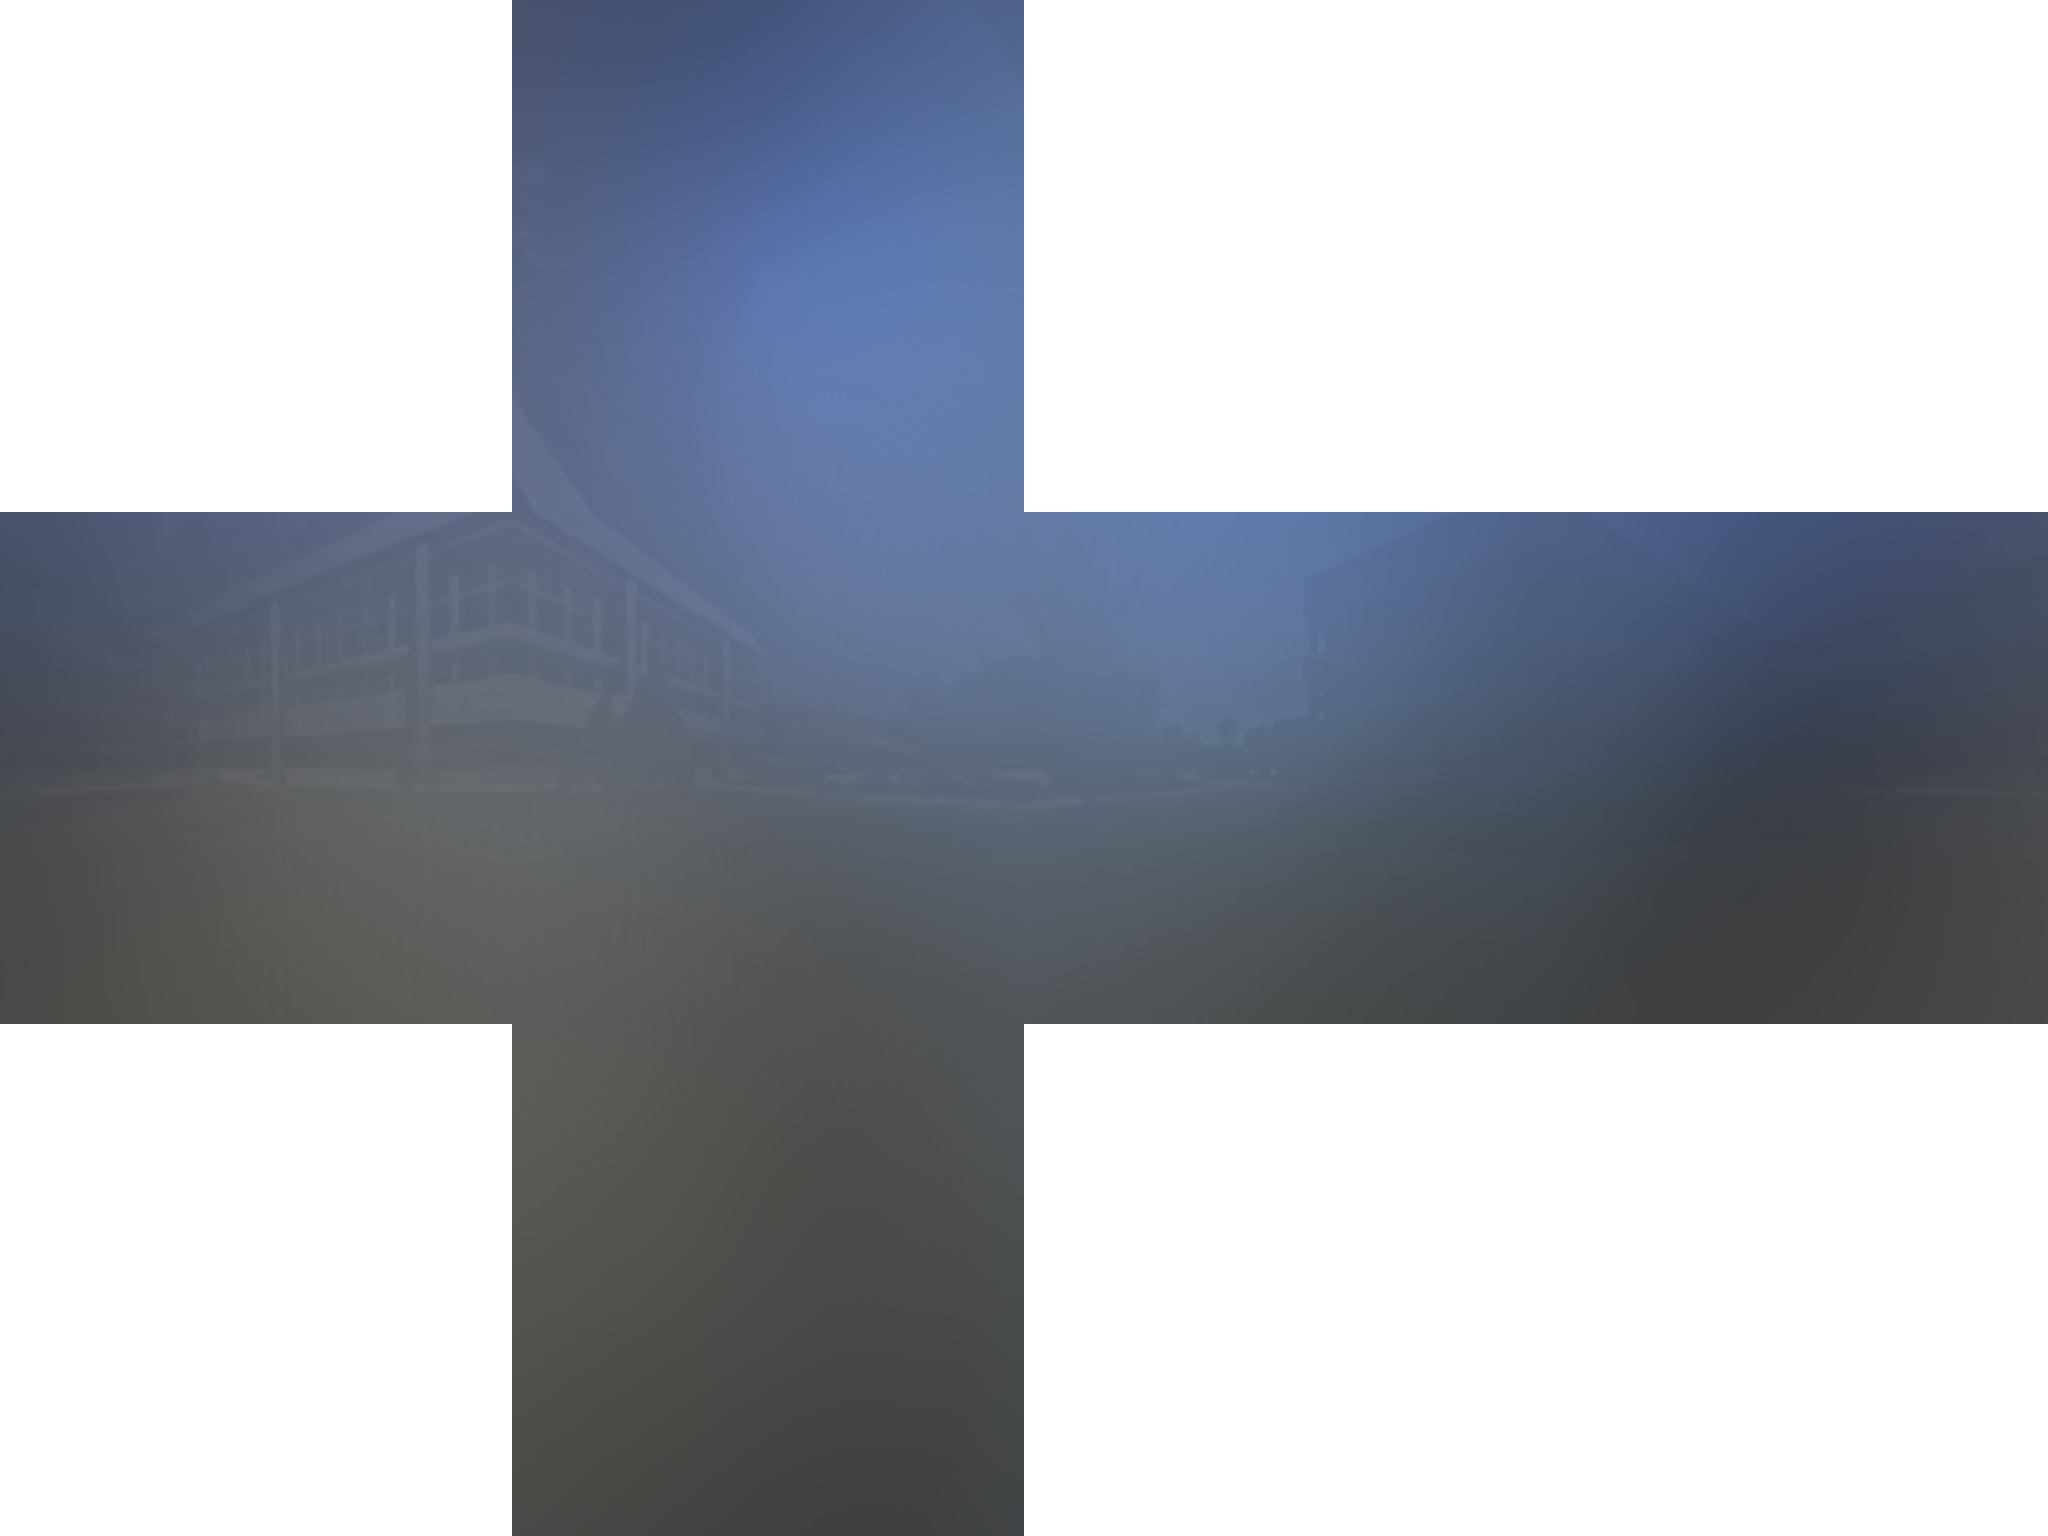
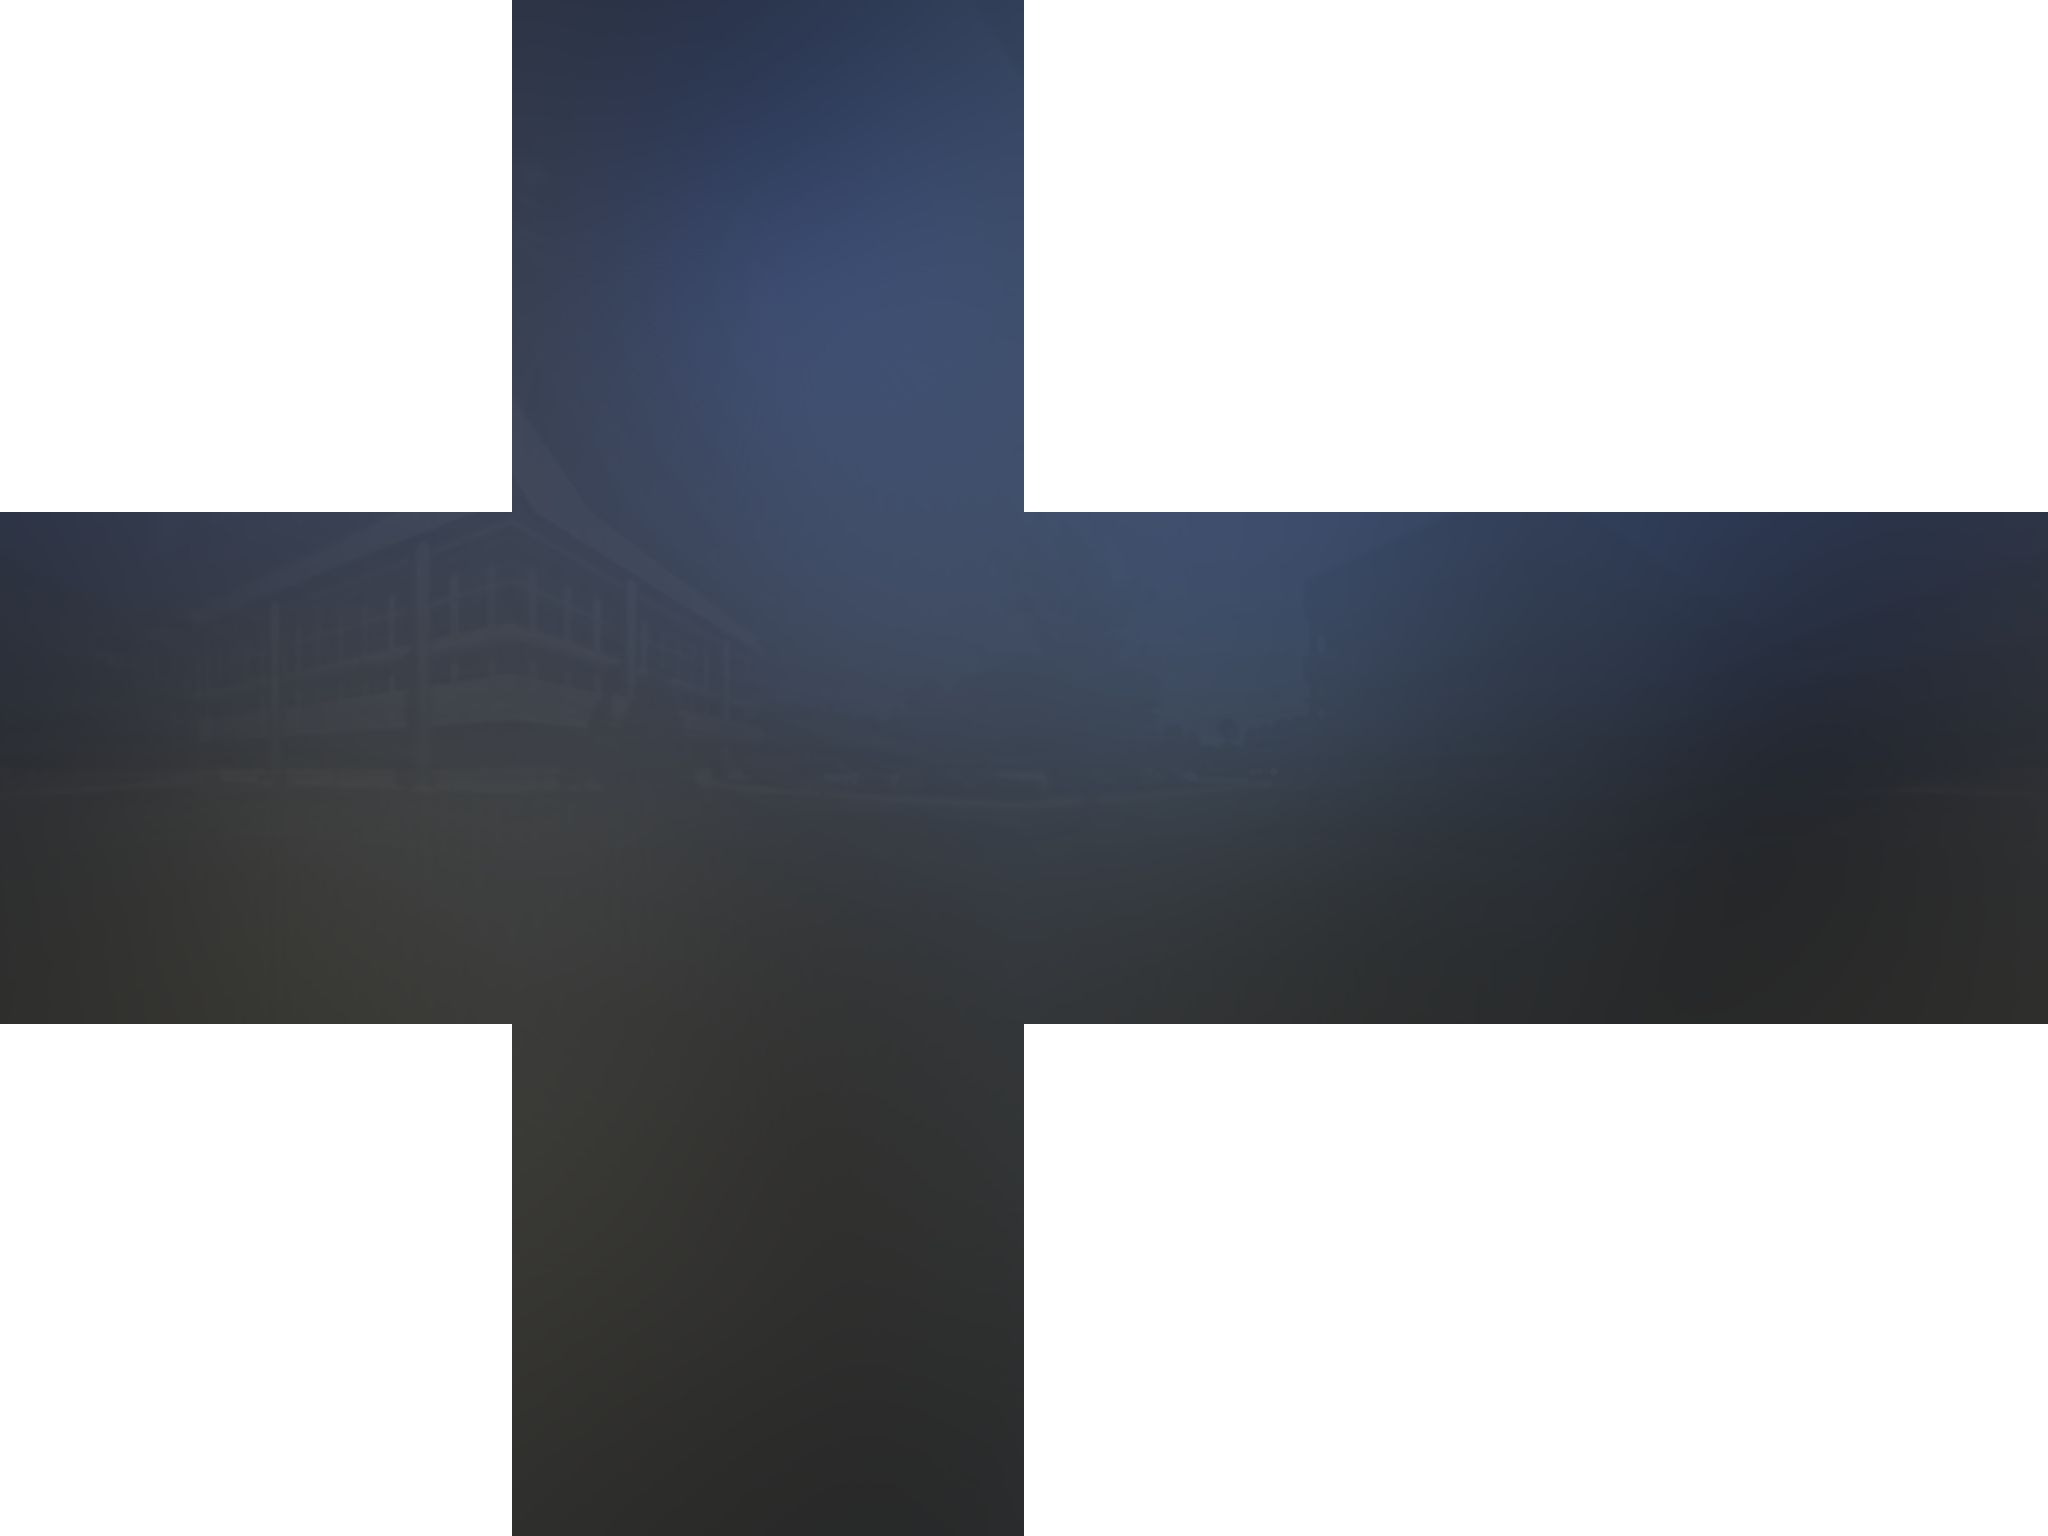
FIXED a bug: generate_irradiance_map

diff --git a/pre_compute.h b/pre_compute.h
@@ -48,7 +48,7 @@ void generate_irradiance_map(const std::string& src_texpath, const std::string& 
 {
 	cube_texture_t src_cube_tex;
 	src_cube_tex.load_tex(src_texpath, false);
-	
+
 	int siz = src_cube_tex.size();
 	cube_texture_t dst_cube_tex(siz);
 
@@ -62,11 +62,12 @@ void generate_irradiance_map(const std::string& src_texpath, const std::string& 
 				tc.v = 1.0f * j / (siz - 1);
 				vector3_t n;
 				cube_uv_to_direction(face_id, tc, n);
-		
+
 				vector3_t tan_x, tan_y;
 				makeup_rot(n, tan_x, tan_y);
 
 				vector3_t irradiance(0, 0, 0);
+
 				const int sample_num = 100;
 				for (int u = 0; u < sample_num; ++u)
 				{
@@ -76,17 +77,15 @@ void generate_irradiance_map(const std::string& src_texpath, const std::string& 
 						vector3_t h = hemisphere_sample_uniform(1.0f * u / (sample_num - 1), 1.0f * v / (sample_num - 1));
 
 						// convert h to world space
-						vector3_t sample_dir = tan_x * h.x + tan_y * h.y + n * h.z;
-						sample_dir.normalize();
-						vector3_t color = src_cube_tex.sample(sample_dir).to_vec3();
+						vector3_t l = tan_x * h.x + tan_y * h.y + n * h.z;
+						l.normalize();
+						vector3_t color = src_cube_tex.sample(l).to_vec3();
 
-						float n_dot_l = max(dot(sample_dir, n), 0);
-						irradiance += color * n_dot_l;
-
+						float NoL = max(dot(n, l), 0);
+						irradiance += color * NoL;
 					}
 				}
-
-				irradiance = irradiance * cPI / (sample_num * sample_num);
+				irradiance = irradiance * 2.0f / float(sample_num * sample_num);
 				face.write_at(i, j, irradiance);
 			}
 		}
@@ -108,7 +107,7 @@ void generate_irradiance_map(const std::string& src_texpath, const std::string& 
 
 }
 
-vector3_t importance_sample_GGX(float e1, float e2, const vector3_t& n, float roughness)
+vector3_t importance_sample_GGX(float e1, float e2, float roughness)
 {
 	float a = roughness * roughness;
 	float a2 = a * a;
@@ -146,7 +145,7 @@ void generate_prefilter_envmap(const std::string& src_texpath, const std::string
 				vector3_t tan_x, tan_y;
 				makeup_rot(n, tan_x, tan_y);
 
-				vector3_t v = n; // suppose that v and n both are same to r!
+				vector3_t v = n; // specular is dependent on view direction, so assume v == n == r for precompute!
 
 				vector3_t filtered_color(0, 0, 0);
 				float weight = 0;
@@ -157,13 +156,13 @@ void generate_prefilter_envmap(const std::string& src_texpath, const std::string
 					float e1, e2;
 					hammersley(i, sample_num, e1, e2);
 
-					vector4_t s = importance_sample_GGX(e1, e2, n, roughness);
+					vector3_t s = importance_sample_GGX(e1, e2, roughness);
 
-					// convert h to world space
+					// convert normal direction s to world space
 					vector3_t h = tan_x * s.x + tan_y * s.y + n * s.z;
 					h.normalize();
 
-					vector3_t l = h * 2.0f * dot(v, h) - v;
+					vector3_t l = reflect(h, v);
 					l.normalize();
 
 					float NoL = max(dot(n, l), 0.0f);
@@ -243,7 +242,7 @@ vector3_t IntegrateBRDF(float NdotV, float roughness)
 	{
 		float e1, e2;
 		hammersley(i, SAMPLE_COUNT, e1, e2);
-		vector3_t s = importance_sample_GGX(e1, e2, n, roughness);
+		vector3_t s = importance_sample_GGX(e1, e2, roughness);
 
 		// convert h to world space
 		vector3_t h = tan_x * s.x + tan_y * s.y + n * s.z;
